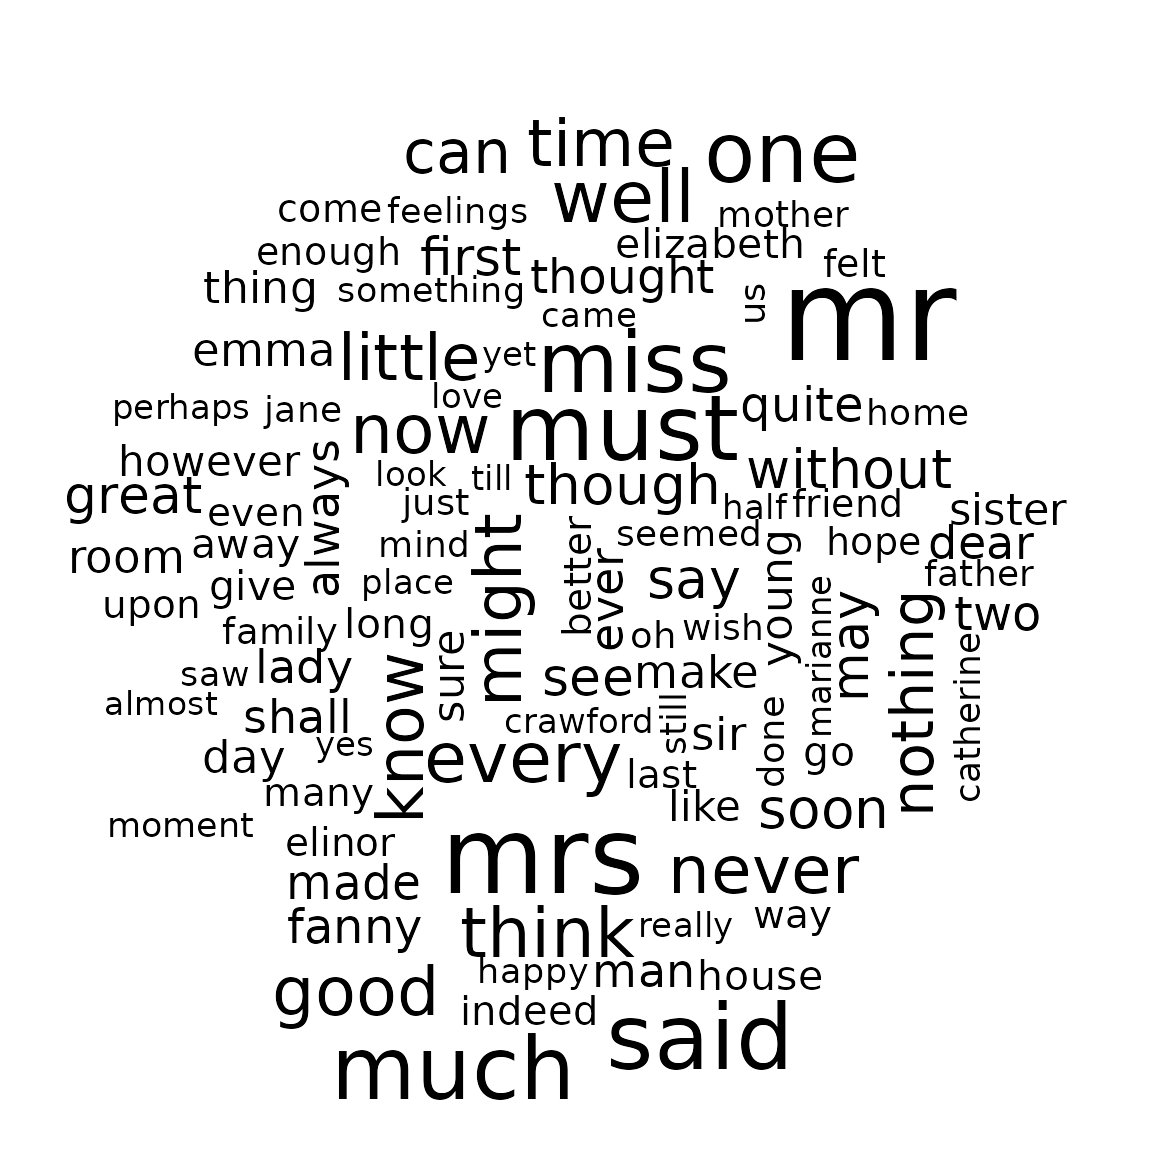
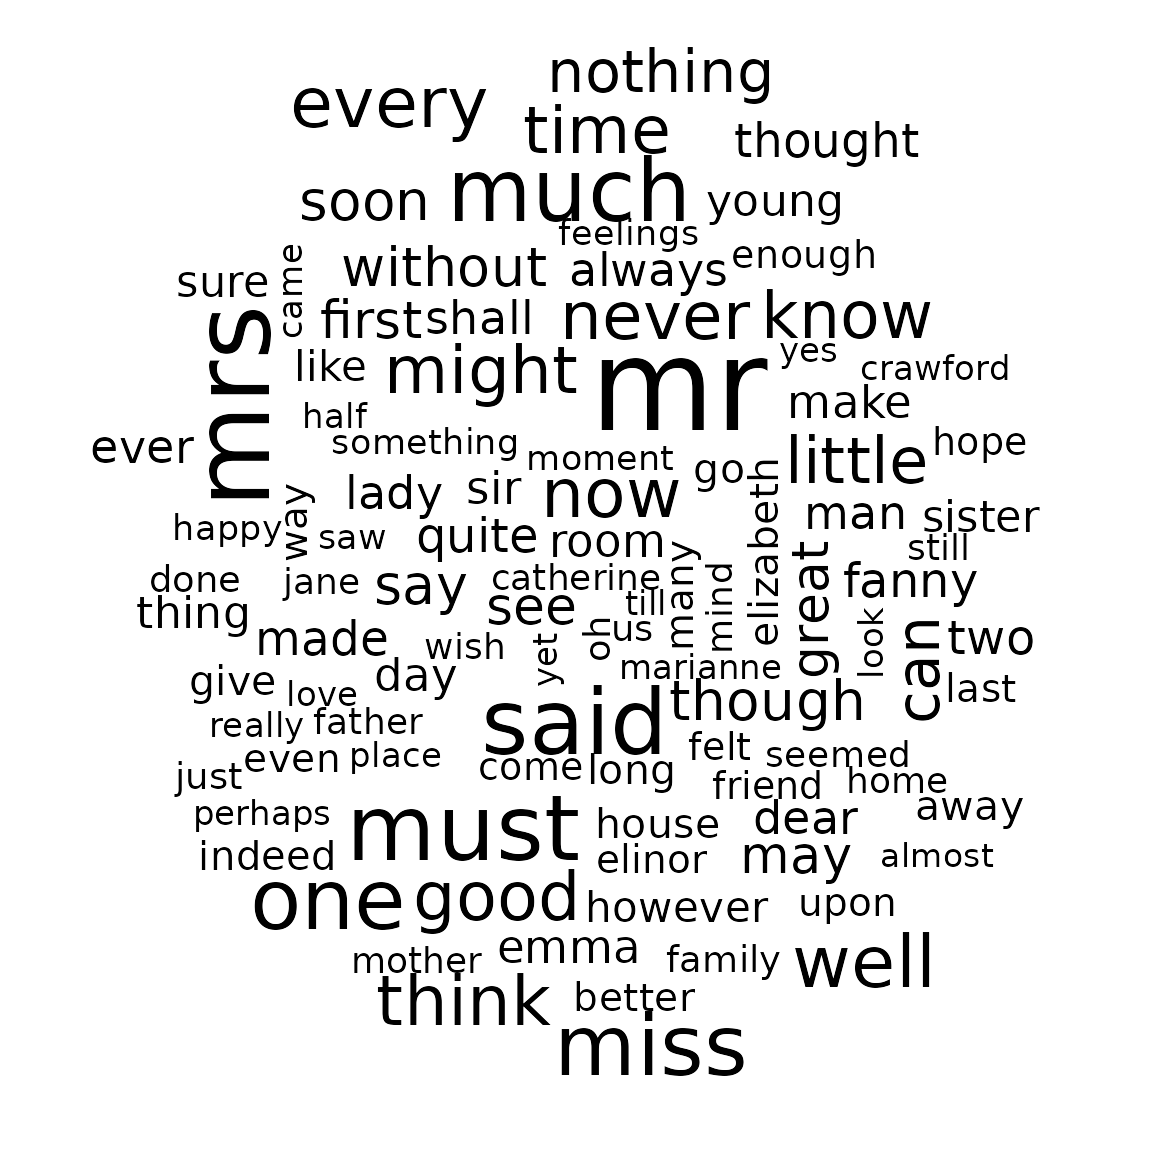
Deploying to gh-pages from @ juliasilge/tidytext@7a846c2a50fdb3e7a15605636cdefe4f43fa0968 🚀

Changed region(s): [[0.0625, 0.0312, 0.9062, 0.9688]]

diff --git a/reference/stm_tidiers.html b/reference/stm_tidiers.html
@@ -203,18 +203,18 @@ column <code>.topic</code> with the topic assignment for that document-term comb
 <span class="r-in"><span><span class="co"># high FREX words per topic</span></span></span>
 <span class="r-in"><span><span class="fu"><a href="https://generics.r-lib.org/reference/tidy.html" class="external-link">tidy</a></span><span class="op">(</span><span class="va">topic_model</span>, matrix <span class="op">=</span> <span class="st">"frex"</span><span class="op">)</span></span></span>
 <span class="r-out co"><span class="r-pr">#&gt;</span> <span style="color: #949494;"># A tibble: 166,968 × 2</span></span>
-<span class="r-out co"><span class="r-pr">#&gt;</span>    topic term       </span>
-<span class="r-out co"><span class="r-pr">#&gt;</span>    <span style="color: #949494; font-style: italic;">&lt;int&gt;</span> <span style="color: #949494; font-style: italic;">&lt;chr&gt;</span>      </span>
-<span class="r-out co"><span class="r-pr">#&gt;</span> <span style="color: #BCBCBC;"> 1</span>     1 weak       </span>
-<span class="r-out co"><span class="r-pr">#&gt;</span> <span style="color: #BCBCBC;"> 2</span>     1 fourteen   </span>
-<span class="r-out co"><span class="r-pr">#&gt;</span> <span style="color: #BCBCBC;"> 3</span>     1 inferiority</span>
-<span class="r-out co"><span class="r-pr">#&gt;</span> <span style="color: #BCBCBC;"> 4</span>     1 person's   </span>
-<span class="r-out co"><span class="r-pr">#&gt;</span> <span style="color: #BCBCBC;"> 5</span>     1 assertion  </span>
-<span class="r-out co"><span class="r-pr">#&gt;</span> <span style="color: #BCBCBC;"> 6</span>     1 hearty     </span>
-<span class="r-out co"><span class="r-pr">#&gt;</span> <span style="color: #BCBCBC;"> 7</span>     1 gardens    </span>
-<span class="r-out co"><span class="r-pr">#&gt;</span> <span style="color: #BCBCBC;"> 8</span>     1 dropped    </span>
-<span class="r-out co"><span class="r-pr">#&gt;</span> <span style="color: #BCBCBC;"> 9</span>     1 bench      </span>
-<span class="r-out co"><span class="r-pr">#&gt;</span> <span style="color: #BCBCBC;">10</span>     1 negligence </span>
+<span class="r-out co"><span class="r-pr">#&gt;</span>    topic term      </span>
+<span class="r-out co"><span class="r-pr">#&gt;</span>    <span style="color: #949494; font-style: italic;">&lt;int&gt;</span> <span style="color: #949494; font-style: italic;">&lt;chr&gt;</span>     </span>
+<span class="r-out co"><span class="r-pr">#&gt;</span> <span style="color: #BCBCBC;"> 1</span>     1 elliot    </span>
+<span class="r-out co"><span class="r-pr">#&gt;</span> <span style="color: #BCBCBC;"> 2</span>     1 wentworth </span>
+<span class="r-out co"><span class="r-pr">#&gt;</span> <span style="color: #BCBCBC;"> 3</span>     1 walter    </span>
+<span class="r-out co"><span class="r-pr">#&gt;</span> <span style="color: #BCBCBC;"> 4</span>     1 anne      </span>
+<span class="r-out co"><span class="r-pr">#&gt;</span> <span style="color: #BCBCBC;"> 5</span>     1 russell   </span>
+<span class="r-out co"><span class="r-pr">#&gt;</span> <span style="color: #BCBCBC;"> 6</span>     1 musgrove  </span>
+<span class="r-out co"><span class="r-pr">#&gt;</span> <span style="color: #BCBCBC;"> 7</span>     1 louisa    </span>
+<span class="r-out co"><span class="r-pr">#&gt;</span> <span style="color: #BCBCBC;"> 8</span>     1 charles   </span>
+<span class="r-out co"><span class="r-pr">#&gt;</span> <span style="color: #BCBCBC;"> 9</span>     1 uppercross</span>
+<span class="r-out co"><span class="r-pr">#&gt;</span> <span style="color: #BCBCBC;">10</span>     1 kellynch  </span>
 <span class="r-out co"><span class="r-pr">#&gt;</span> <span style="color: #949494;"># … with 166,958 more rows</span></span>
 <span class="r-in"><span></span></span>
 <span class="r-in"><span><span class="co"># high lift words per topic</span></span></span>

diff --git a/reference/lda_tidiers.html b/reference/lda_tidiers.html
@@ -224,16 +224,16 @@ for topics over documents</p></dd>
 <span class="r-out co"><span class="r-pr">#&gt;</span> <span style="color: #949494;"># A tibble: 100 × 3</span></span>
 <span class="r-out co"><span class="r-pr">#&gt;</span>    document topic gamma</span>
 <span class="r-out co"><span class="r-pr">#&gt;</span>       <span style="color: #949494; font-style: italic;">&lt;int&gt;</span> <span style="color: #949494; font-style: italic;">&lt;int&gt;</span> <span style="color: #949494; font-style: italic;">&lt;dbl&gt;</span></span>
-<span class="r-out co"><span class="r-pr">#&gt;</span> <span style="color: #BCBCBC;"> 1</span>       23     4 0.645</span>
-<span class="r-out co"><span class="r-pr">#&gt;</span> <span style="color: #BCBCBC;"> 2</span>       51     4 0.897</span>
-<span class="r-out co"><span class="r-pr">#&gt;</span> <span style="color: #BCBCBC;"> 3</span>       63     4 0.935</span>
-<span class="r-out co"><span class="r-pr">#&gt;</span> <span style="color: #BCBCBC;"> 4</span>       91     3 0.952</span>
-<span class="r-out co"><span class="r-pr">#&gt;</span> <span style="color: #BCBCBC;"> 5</span>       65     4 0.962</span>
-<span class="r-out co"><span class="r-pr">#&gt;</span> <span style="color: #BCBCBC;"> 6</span>        9     4 0.992</span>
-<span class="r-out co"><span class="r-pr">#&gt;</span> <span style="color: #BCBCBC;"> 7</span>       22     4 0.995</span>
-<span class="r-out co"><span class="r-pr">#&gt;</span> <span style="color: #BCBCBC;"> 8</span>       60     4 0.995</span>
-<span class="r-out co"><span class="r-pr">#&gt;</span> <span style="color: #BCBCBC;"> 9</span>       98     3 0.998</span>
-<span class="r-out co"><span class="r-pr">#&gt;</span> <span style="color: #BCBCBC;">10</span>       14     4 0.998</span>
+<span class="r-out co"><span class="r-pr">#&gt;</span> <span style="color: #BCBCBC;"> 1</span>       42     4 0.578</span>
+<span class="r-out co"><span class="r-pr">#&gt;</span> <span style="color: #BCBCBC;"> 2</span>       52     4 0.596</span>
+<span class="r-out co"><span class="r-pr">#&gt;</span> <span style="color: #BCBCBC;"> 3</span>        8     1 0.649</span>
+<span class="r-out co"><span class="r-pr">#&gt;</span> <span style="color: #BCBCBC;"> 4</span>       15     4 0.734</span>
+<span class="r-out co"><span class="r-pr">#&gt;</span> <span style="color: #BCBCBC;"> 5</span>       98     2 0.818</span>
+<span class="r-out co"><span class="r-pr">#&gt;</span> <span style="color: #BCBCBC;"> 6</span>       46     4 0.902</span>
+<span class="r-out co"><span class="r-pr">#&gt;</span> <span style="color: #BCBCBC;"> 7</span>       39     1 0.915</span>
+<span class="r-out co"><span class="r-pr">#&gt;</span> <span style="color: #BCBCBC;"> 8</span>       28     4 0.923</span>
+<span class="r-out co"><span class="r-pr">#&gt;</span> <span style="color: #BCBCBC;"> 9</span>       75     2 0.960</span>
+<span class="r-out co"><span class="r-pr">#&gt;</span> <span style="color: #BCBCBC;">10</span>       88     2 0.974</span>
 <span class="r-out co"><span class="r-pr">#&gt;</span> <span style="color: #949494;"># … with 90 more rows</span></span>
 <span class="r-in"><span></span></span>
 </code></pre></div>

diff --git a/news/index.html b/news/index.html
@@ -68,7 +68,8 @@
 
     <div class="section level2">
 <h2 class="page-header" data-toc-text="development version" id="tidytext-development-version">tidytext (development version)<a class="anchor" aria-label="anchor" href="#tidytext-development-version"></a></h2>
-</div>
+<ul><li>Fixed bug for FREX stm tidier (<a href="https://github.com/juliasilge/tidytext/issues/228" class="external-link">#228</a>)</li>
+</ul></div>
     <div class="section level2">
 <h2 class="page-header" data-toc-text="0.4.0" id="tidytext-040">tidytext 0.4.0<small>2022-12-20</small><a class="anchor" aria-label="anchor" href="#tidytext-040"></a></h2>
 <ul><li>hunspell is now a suggested dependency, thanks to <a href="https://github.com/MichaelChirico" class="external-link">@MichaelChirico</a> (<a href="https://github.com/juliasilge/tidytext/issues/221" class="external-link">#221</a>)</li>

diff --git a/articles/tidying_casting.html b/articles/tidying_casting.html
@@ -99,7 +99,7 @@ Corpus objects</h1>
                         <h4 data-toc-skip class="author">Julia Silge and
 David Robinson</h4>
             
-            <h4 data-toc-skip class="date">2022-12-20</h4>
+            <h4 data-toc-skip class="date">2022-12-30</h4>
       
       <small class="dont-index">Source: <a href="https://github.com/juliasilge/tidytext/blob/HEAD/vignettes/tidying_casting.Rmd" class="external-link"><code>vignettes/tidying_casting.Rmd</code></a></small>
       <div class="hidden name"><code>tidying_casting.Rmd</code></div>

diff --git a/articles/topic_modeling.html b/articles/topic_modeling.html
@@ -98,7 +98,7 @@
                         <h4 data-toc-skip class="author">Julia Silge and
 David Robinson</h4>
             
-            <h4 data-toc-skip class="date">2022-12-20</h4>
+            <h4 data-toc-skip class="date">2022-12-30</h4>
       
       <small class="dont-index">Source: <a href="https://github.com/juliasilge/tidytext/blob/HEAD/vignettes/articles/topic_modeling.Rmd" class="external-link"><code>vignettes/articles/topic_modeling.Rmd</code></a></small>
       <div class="hidden name"><code>topic_modeling.Rmd</code></div>

diff --git a/articles/tidytext.html b/articles/tidytext.html
@@ -98,7 +98,7 @@
                         <h4 data-toc-skip class="author">Julia Silge and
 David Robinson</h4>
             
-            <h4 data-toc-skip class="date">2022-12-20</h4>
+            <h4 data-toc-skip class="date">2022-12-30</h4>
       
       <small class="dont-index">Source: <a href="https://github.com/juliasilge/tidytext/blob/HEAD/vignettes/tidytext.Rmd" class="external-link"><code>vignettes/tidytext.Rmd</code></a></small>
       <div class="hidden name"><code>tidytext.Rmd</code></div>

diff --git a/articles/tf_idf.html b/articles/tf_idf.html
@@ -99,7 +99,7 @@
                         <h4 data-toc-skip class="author">Julia Silge and
 David Robinson</h4>
             
-            <h4 data-toc-skip class="date">2022-12-20</h4>
+            <h4 data-toc-skip class="date">2022-12-30</h4>
       
       <small class="dont-index">Source: <a href="https://github.com/juliasilge/tidytext/blob/HEAD/vignettes/tf_idf.Rmd" class="external-link"><code>vignettes/tf_idf.Rmd</code></a></small>
       <div class="hidden name"><code>tf_idf.Rmd</code></div>
